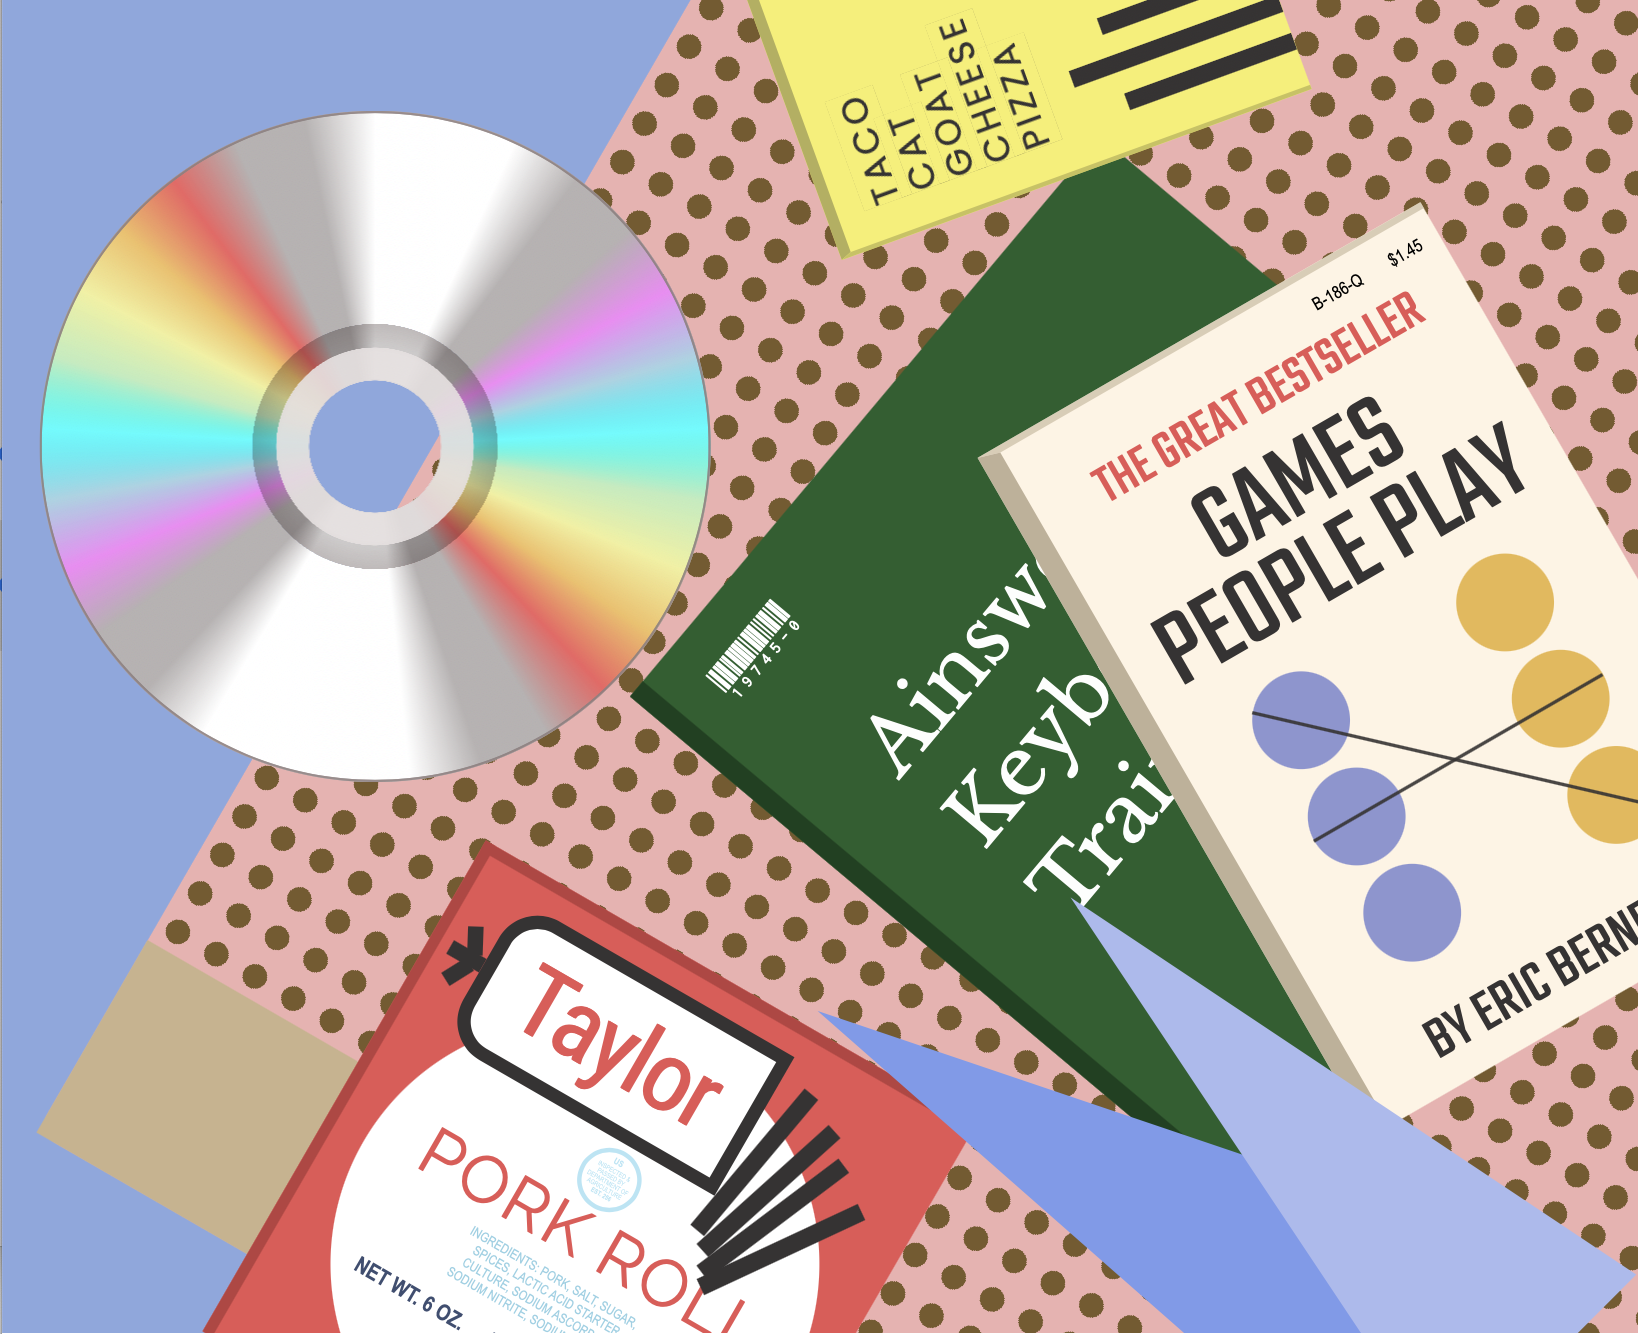
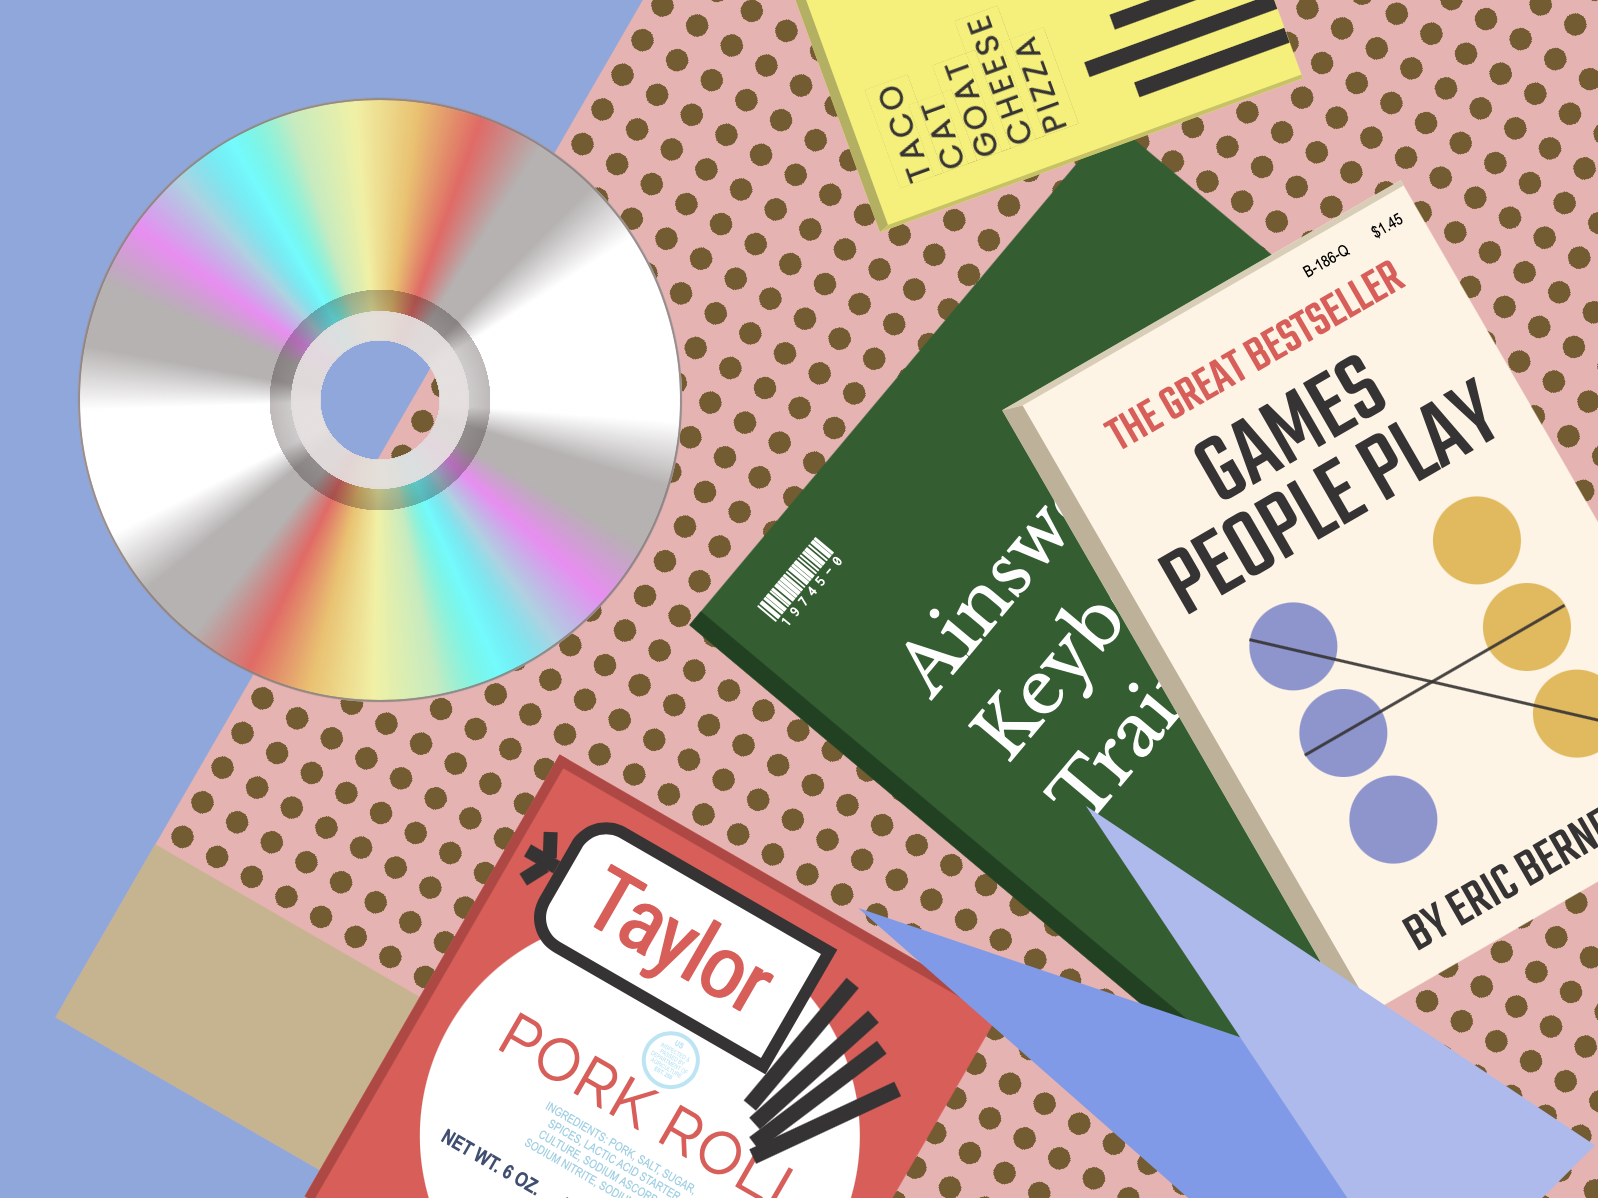
Animations completed

diff --git a/StillLife.html b/StillLife.html
@@ -24,7 +24,7 @@
       transform: rotate(-60deg);
       position: absolute;
       top: -80px;
-      left: 200px;
+      left: 150px;
       border-radius: 10px;
       background-image: radial-gradient(rgb(119, 90, 43) 40%, transparent 40%);
       background-size: 20px 20px;
@@ -105,6 +105,20 @@
           rgb(242, 98, 98),
           rgb(183, 178, 178), rgb(183, 178, 178), white);
       border: 1px solid rgba(212, 198, 198, 0.649);
+      animation-name: rotate;
+      animation-duration: 10s;
+      animation-delay: 2s; 
+      animation-iteration-count: infinite;
+      animation-timing-function: linear;
+    }
+
+    @keyframes rotate {
+      from {
+        transform: rotate(-360deg);
+      }
+      to {
+        transform: rotate(360deg);
+      }
     }
 
     #cdhole2 {
@@ -331,6 +345,7 @@
       height: 100%;
       display: table-cell;
     }
+
     #barcode:hover .laser {
       width: 60px;
       margin-left: -18%;
@@ -369,6 +384,7 @@
       top: 125px;
       right: -5px;
       transform: rotate(-30deg);
+      cursor: pointer;
     }
 
     #bookid {
@@ -456,6 +472,97 @@
       position: absolute;
     }
 
+    #vert1 {
+      position: absolute;
+      left: 80px;
+      top: 150px;
+      width: 7px;
+      height: 135px;
+      border-radius: 10px;
+    }
+
+    #vert2 {
+      position: absolute;
+      left: 130px;
+      top: 150px;
+      width: 7px;
+      height: 135px;
+      border-radius: 10px;
+    }
+
+    #horiz1 {
+      position: absolute;
+      left: 105px;
+      top: 120px;
+      height: 140px;
+      width: 7px;
+      border-radius: 10px;
+      transform: rotate(90deg);
+    }
+
+    #horiz2 {
+      position: absolute;
+      left: 105px;
+      top: 170px;
+      height: 140px;
+      width: 7px;
+      border-radius: 10px;
+      transform: rotate(90deg);
+    }
+
+    #tic {
+      display: none;
+      width: 37px;
+      height: 37px;
+      background-image: radial-gradient(transparent 46%, rgb(117, 146, 227) 46%);
+      border-radius: 50%;
+      position: absolute;
+      top: 197px;
+      left: 90px;
+    }
+
+    #tac {
+      display: none;
+      background-color: rgb(232, 84, 84);
+      position: absolute;
+      left: 58px;
+      top: 147px;
+      width: 6px;
+      height: 37px;
+      border-radius: 10px;
+      transform: rotate(45deg);
+    }
+
+    #toe {
+      display: none;
+      background-color: rgb(232, 84, 84);
+      position: absolute;
+      left: 58px;
+      top: 147px;
+      width: 6px;
+      height: 37px;
+      border-radius: 10px;
+      transform: rotate(-45deg);
+    }
+
+    .game2 {
+      display: none;
+    }
+
+    #whitebook:focus .game1 {
+      display: none;
+    }
+
+    #whitebook:focus .game2 {
+      display: block;
+    }
+
+    .game2:hover #tic,
+    .game2:hover #tac,
+    .game2:hover #toe {
+      display: block;
+    }
+
     #yellowcards {
       width: 160px;
       height: 220px;
@@ -486,6 +593,7 @@
       animation:
         b .7s infinite steps(1),
         t calc(var(--n)*.3s) steps(var(--n)) forwards;
+      animation-iteration-count: infinite;
     }
 
     @keyframes t {
@@ -570,6 +678,32 @@
       transform: rotate(-60deg);
     }
 
+    #triangle1:hover {
+      animation: rotateTriangle 1s linear .2s 3 alternate-reverse;
+    }
+
+    #triangle2:hover {
+      animation: rotateTriangle2 1s linear .2s 3 alternate-reverse;
+    }
+
+    @keyframes rotateTriangle {
+      from {
+        transform: rotate(-60deg);
+      }
+      to {
+        transform: rotate(-80deg);
+      }
+    }
+
+    @keyframes rotateTriangle2 {
+      from {
+        transform: rotate(-45deg);
+      }
+      to {
+        transform: rotate(-65deg);
+      }
+    }
+
     #triangle2 {
       width: 0;
       height: 0;
@@ -600,7 +734,7 @@
       <div id="band">
       </div>
     </div>
-    <div id="cdcontainer" style="position: absolute; top: 50px; left: 80px;">
+    <div id="cdcontainer" style="position: absolute; top: 50px; left: 40px;">
       <div id="cd"></div>
       <div id="cdshape">
         <div id="cdhole">
@@ -641,25 +775,38 @@
       </div>
       <div id="whitetitle">Ainsworth <br> Keyboard <br> Trainer</div>
     </div>
-    <div id="whitebook">
+    <div id="whitebook" tabindex="1">
       <div id="bookid">B-186-Q&nbsp;&nbsp;&nbsp;&nbsp;&nbsp;&nbsp;&nbsp;&nbsp;$1.45</div>
       <div id="redtext">THE GREAT BESTSELLER</div>
       <div id="titletext">GAMES PEOPLE PLAY</div>
       <div id="author">BY ERIC BERNE, M.D.</div>
-      <div id="bluecircle"></div>
-      <div id="bluecircle" style="top: 200px;"></div>
-      <div id="bluecircle" style="top: 250px;"></div>
-      <div id="goldcircle"></div>
-      <div id="goldcircle" style="top: 200px"></div>
-      <div id="goldcircle" style="top: 250px;"></div>
-      <div id="line1"></div>
-      <div id="line2"></div>
+      <div class="game1">
+        <div id="bluecircle"></div>
+        <div id="bluecircle" style="top: 200px;"></div>
+        <div id="bluecircle" style="top: 250px;"></div>
+        <div id="goldcircle"></div>
+        <div id="goldcircle" style="top: 200px"></div>
+        <div id="goldcircle" style="top: 250px;"></div>
+        <div id="line1"></div>
+        <div id="line2"></div>
+      </div>
+      <div class="game2">
+        <div class="grid">
+          <div id="vert1" class="bar"></div>
+          <div id="vert2" class="bar"></div>
+          <div id="horiz1" class="bar"></div>
+          <div id="horiz2" class="bar"></div>
+        </div>
+        <div id="tic"></div>
+        <div id="tac" class="bar"></div>
+        <div id="toe" class="bar"></div>
+      </div>
     </div>
     <div id="yellowcards">
       <div style="margin:15px"><span id="tacocat" style="--n:24">TACO<br>CAT<br>GOAT<br>CHEESE<br>PIZZA</span></div>
       <div id="cardbar1"></div>
-      <div id="cardbar2" class="bar"></div>
-      <div id="cardbar3" class="bar"></div>
+      <div id="cardbar2"></div>
+      <div id="cardbar3"></div>
     </div>
     <div id="triangle1"></div>
     <div id="triangle2"></div>

diff --git a/README.md b/README.md
@@ -1,2 +1,3 @@
-**This is my drawing** :)
+**Still Life CSS**
+Still life assemblage reconstructed with CSS elements:
 ![alt text](StillLifeScreenshot.png "Still Life")
